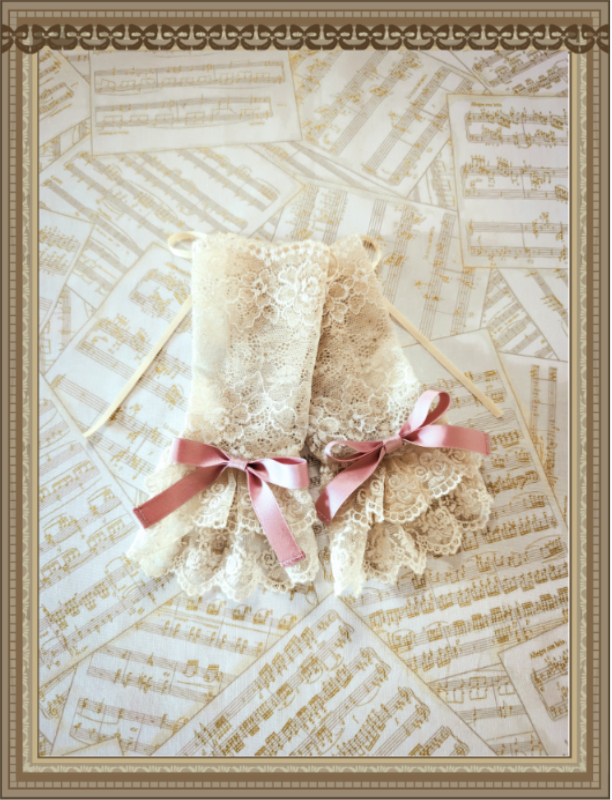
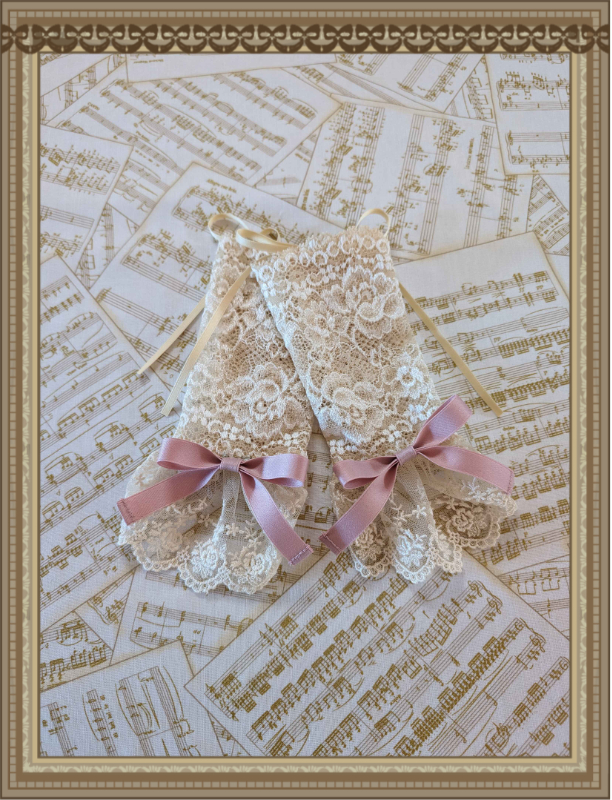
fix picture of arm warmers

diff --git a/portfolio.html b/portfolio.html
@@ -122,7 +122,7 @@
         
         <div class="col-md-6 gallery-item">
             <a href="products/other_accessories/aria_lace_up_armwarmers.html">
-                <img src="/assets/products/PXL_20240612_013640942.RAW-01.MP.COVER.jpg" class="img-fluid img-responsive img-rounded" />
+                <img src="/assets/products/PXL_20240612_012227492.RAW-01.COVER.jpg" class="img-fluid img-responsive img-rounded" />
             </a>
             <div class="product-card"><a href="products/other_accessories/aria_lace_up_armwarmers.html" class="product-link">Aria Lace-up Armwarmers</a></div>
             <div class="product-subtitle">Armwarmers with a lace-up design</div>

diff --git a/products/other_accessories/aria_lace_up_armwarmers.html b/products/other_accessories/aria_lace_up_armwarmers.html
@@ -28,7 +28,7 @@
     <h2>Aria Lace-up Armwarmers</h2>
 <p><br /></p>
 <div class="float-none">
-<img src="/assets/products/PXL_20240612_013640942.RAW-01.MP.COVER.jpg" class="img-rounded" />
+<img src="/assets/products/PXL_20240612_012227492.RAW-01.COVER.jpg" class="img-rounded" />
 <img src="/assets/products/PXL_20240612_004958607.RAW-01.COVER.jpg" class="img-rounded" /><br />
 
 <div class="product-description">
